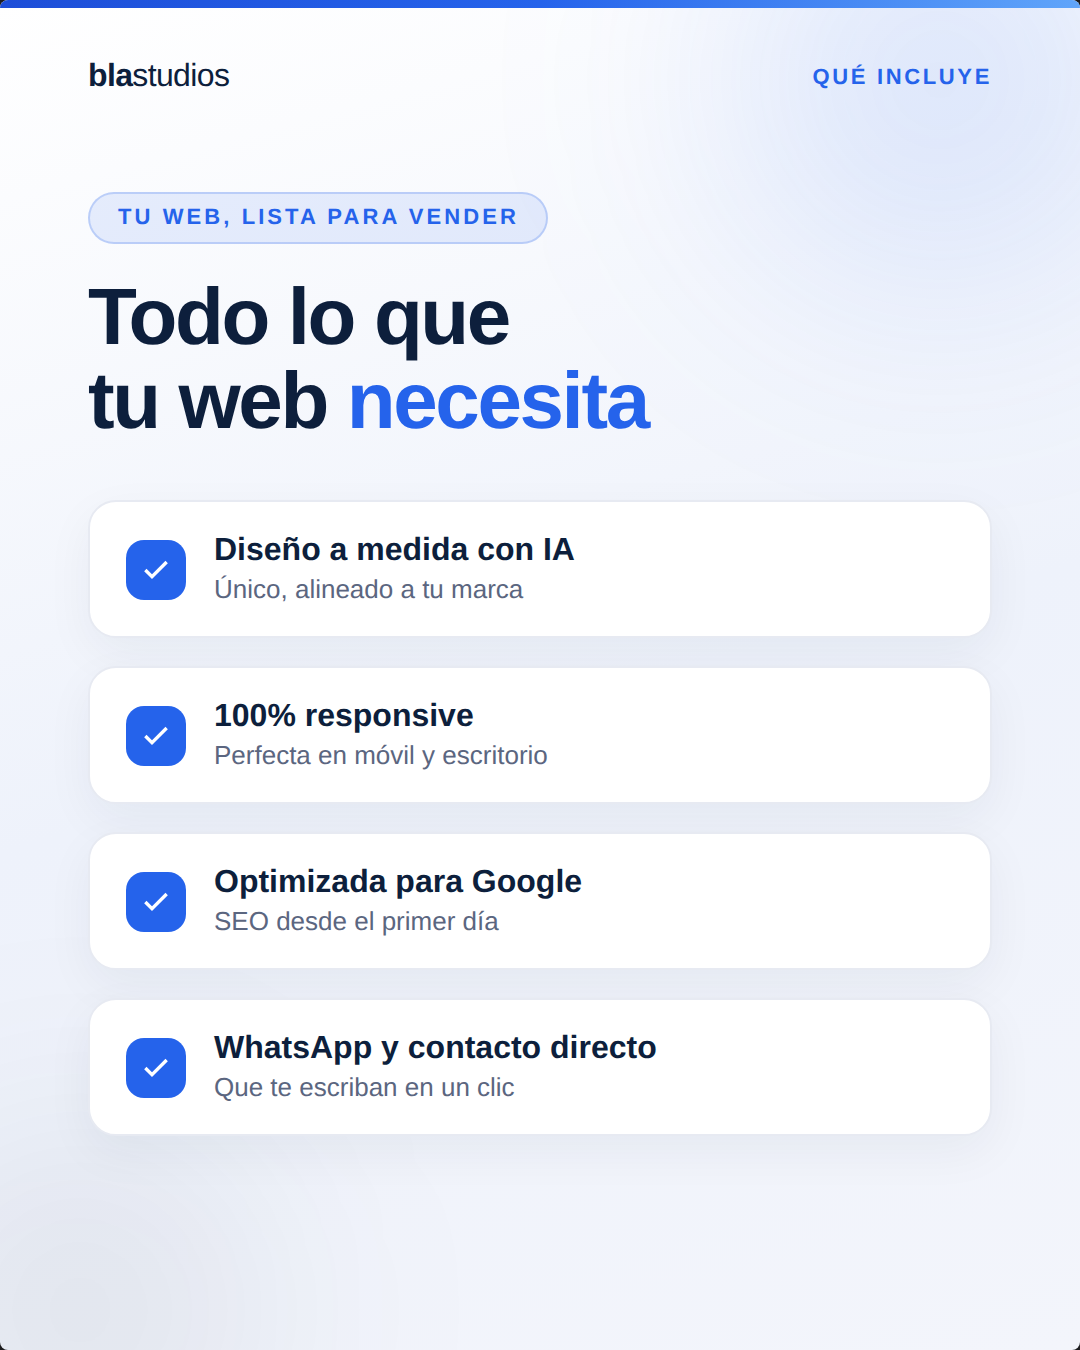
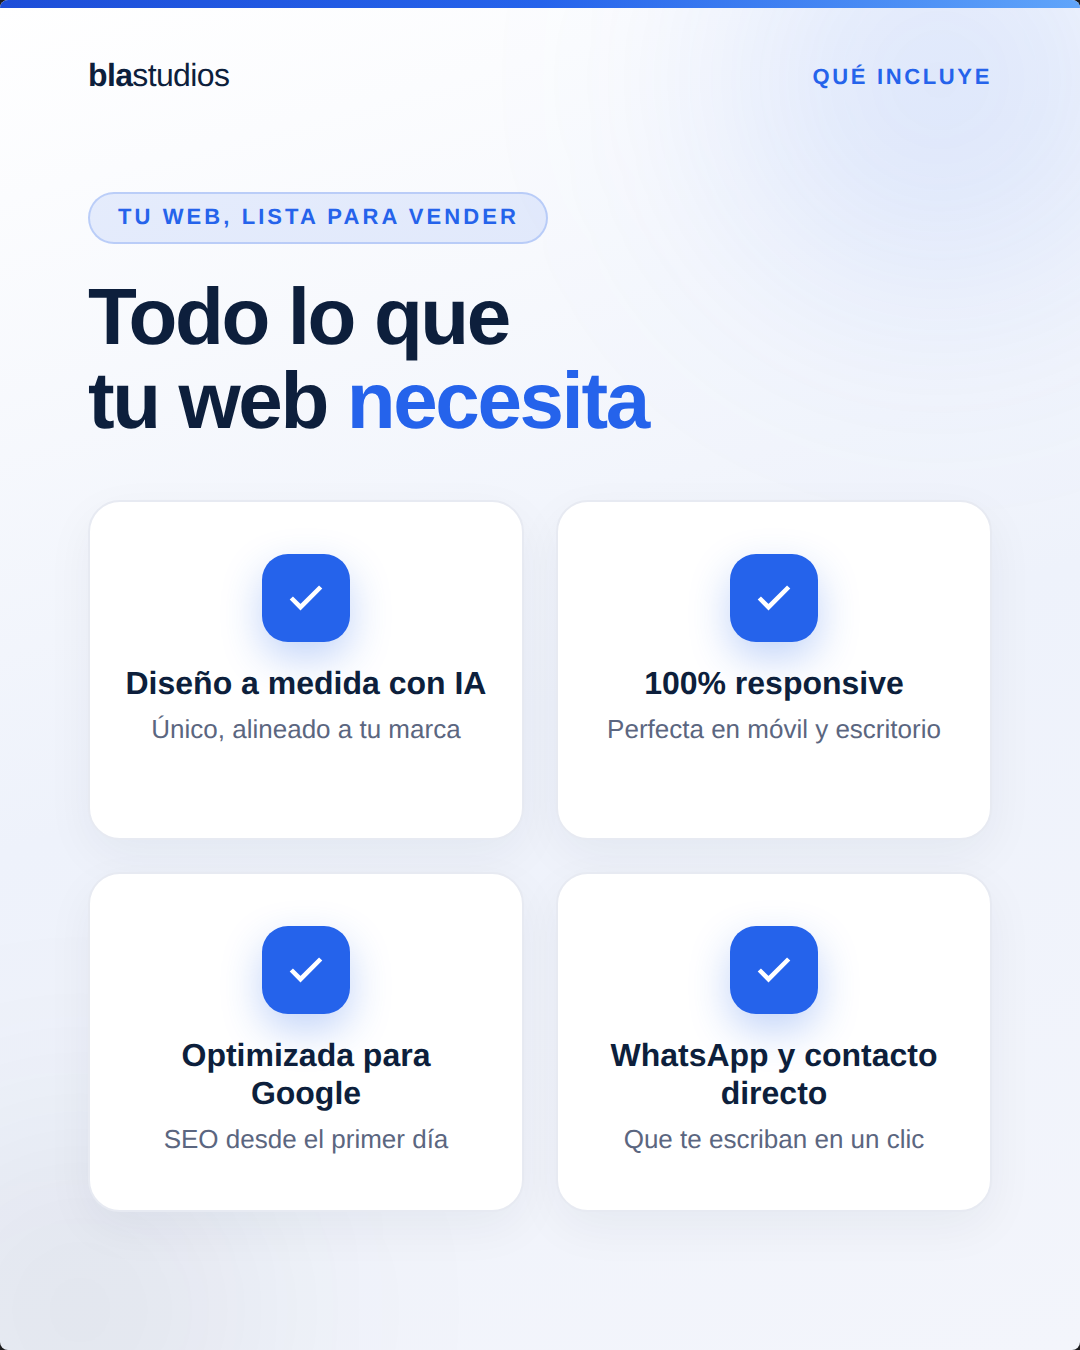
Make 'Qué incluye' slide a symmetric 2x2 grid instead of a stacked list
Claude-Session: https://claude.ai/code/session_01BwG8Sr5B2t2yYbA8roGtjM

diff --git a/carruceles instagram/12-pagina-web.html b/carruceles instagram/12-pagina-web.html
@@ -304,28 +304,35 @@
     color: var(--navy); margin: 16px 0 28px;
   }
   .incl h2 em { font-style: normal; color: var(--blue); }
-  .incl .list { display: flex; flex-direction: column; gap: 14px; }
+  .incl .list {
+    display: grid;
+    grid-template-columns: 1fr 1fr;
+    grid-auto-rows: 1fr;
+    gap: 16px;
+  }
   .incl .item {
-    display: flex; align-items: center; gap: 14px;
+    display: flex; flex-direction: column; align-items: center; text-align: center;
+    gap: 12px;
     background: #fff;
     border: 1px solid #e7eaf2;
-    border-radius: 14px;
-    padding: 16px 18px;
+    border-radius: 16px;
+    padding: 26px 16px;
     box-shadow: 0 8px 24px rgba(13,31,60,0.05);
   }
   .incl .item .check {
-    width: 30px; height: 30px; flex-shrink: 0;
-    border-radius: 9px; background: var(--blue);
+    width: 44px; height: 44px; flex-shrink: 0;
+    border-radius: 13px; background: var(--blue);
     display: flex; align-items: center; justify-content: center;
+    box-shadow: 0 8px 20px rgba(37,99,235,0.28);
   }
-  .incl .item .check svg { width: 16px; height: 16px; stroke: #fff; fill: none; stroke-width: 2.5; }
+  .incl .item .check svg { width: 22px; height: 22px; stroke: #fff; fill: none; stroke-width: 2.5; }
   .incl .item .t b {
     display: block; font-family: 'Inter', sans-serif;
-    font-size: 16px; font-weight: 600; color: var(--navy);
+    font-size: 16px; font-weight: 600; color: var(--navy); line-height: 1.2;
   }
   .incl .item .t span {
     display: block; font-family: 'Inter', sans-serif;
-    font-size: 13px; color: var(--muted); margin-top: 2px;
+    font-size: 13px; color: var(--muted); margin-top: 4px; line-height: 1.35;
   }
 
   /* ─── SLIDE 6 — CTA ───────────────────────────── */
